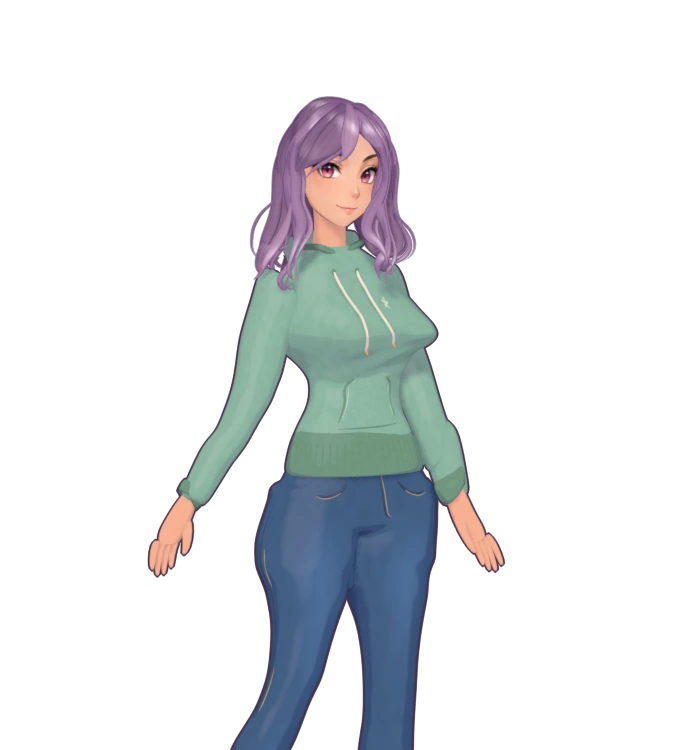
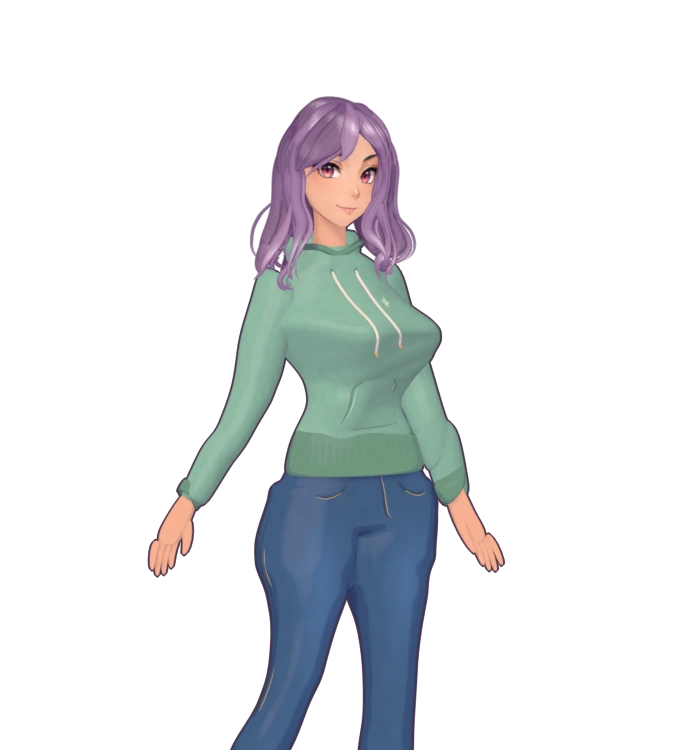
Round the studio bodice to match the illustrated garment profiles

diff --git a/docs/avatar-3d.html b/docs/avatar-3d.html
@@ -7,7 +7,7 @@
 <meta name="description" content="같은 코디의 2D 원화와 3D 모델 렌더를 비교해 보세요.">
 <title>캐릭터 제작 시안 · 알찬끼</title>
 <link rel="stylesheet" href="./avatar-3d.css">
-<script type="module" src="./avatar-3d.mjs?v=18"></script>
+<script type="module" src="./avatar-3d.mjs?v=19"></script>
 </head>
 <body>
 <main>

diff --git a/scripts/avatar-studio/render.py b/scripts/avatar-studio/render.py
@@ -833,25 +833,36 @@ def sleeves(fabric, cuff, trim=None):
         mark_region(before, "arm", side)
 
 
-def tailored_fold(point, angle, strength=1, chest_ease=1):
+# Additional room across successive horizontal sections of the dress form.
+# Both garments turn gradually under the rib cage. The open, tailored coat
+# settles against the waist sooner than the closed fleece front.
+BODICE_SECTIONS = [
+    # height, fleece ease, coat ease
+    (3.50,.000,.000), (3.64,.138,.031), (3.76,.199,.070),
+    (3.86,.220,.098), (3.96,.259,.165), (4.04,.323,.248),
+    (4.10,.328,.279), (4.16,.236,.251), (4.23,.142,.105),
+    (4.30,.067,.075), (4.39,.000,.000),
+]
+
+
+def tailored_fold(point, angle, strength=1, coat=False):
     x,y,z = point
-    # The cloth bridges the chest, turns under the rib cage and relaxes at
-    # the waist. Use the same dress form for the knit, fleece and coat.
     front = max(0, cos(angle))
     side = sin(angle)
-    crest = 4.025+.075*side
-    chest = chest_ease*exp(-((z-crest)/.245)**2)
-    # The cross-section rounds on either side of the sternum. Give the
-    # side seam some ease and let the fabric bridge the centre softly.
-    rounded = exp(-((abs(side)-.54)/.38)**2)
-    x += chest*(.116*side+.055*front+.138*smooth_range(side,-.2,.72))
-    y -= chest*front*(.180+.118*rounded)
+    section = coat_section if coat else fleece_section
+    ease, = section(z)
+    # The closer side faces the camera. Roll the fabric down and around
+    # it before it meets the waist, with a soft bridge across the front.
+    near = exp(-((side+.49)/.44)**2)
+    drape, = section(z+.090*near)
+    x += ease*(.50*side+.26*front+.26*smooth_range(side,-.2,.72))
+    y -= front*(.91*drape+.137*near*exp(-((z-3.92)/.25)**2))
     waist = exp(-((z-3.655)/.142)**2)
     x -= .023*side*waist
     y += .034*front*waist
     pucker = 0
     for center, bias, span, height in ((3.49,.22,.043,.023),(3.61,-.26,.038,.021),
-                                      (3.75,-.31,.038,.022),(4.08,.17,.055,.013)):
+                                      (3.74,-.38,.058,.015),(4.08,.22,.072,.004)):
         t = (z-center + bias*x)/span
         pucker += height*(exp(-t*t) - .66*exp(-(t-1.23)**2))
     pucker *= max(0, cos(angle))**.8 * strength
@@ -942,7 +953,7 @@ def coat(fabric, lapel, inner, gold, thread):
     rows = [(x,y,z,w*.93,d*.95) for x,y,z,w,d in TORSO] + [
         (0,-.008,4.433,.158,.147),(0,-.016,4.467,.131,.131)]
     rings("Cream knit with pressed neckline", stitched_rows(rows), inner, cap=False,
-          sculpt=lambda point,angle: tailored_fold(point,angle,chest_ease=.75), smooth=1)
+          sculpt=lambda point,angle: tailored_fold(point,angle,coat=True), smooth=1)
     rings("Folded knit collar around neck", [(0,-.016,4.446,.155,.147),
           (0,-.016,4.474,.139,.140),(0,-.017,4.504,.130,.127),
           (0,-.017,4.509,.115,.116)], inner, cap=False, smooth=1)
@@ -953,7 +964,7 @@ def coat(fabric, lapel, inner, gold, thread):
         (0,.024,4.284,.510,.241),(0,.023,4.356,.417,.219),(0,.014,4.440,.214,.173)
     ]
     def coat_fold(point, angle):
-        x,y,z = tailored_fold(point, angle, strength=.44, chest_ease=.75)
+        x,y,z = tailored_fold(point, angle, strength=.44, coat=True)
         flex = max(0,min(1,(3.5-z)/1.48))
         wave = (.042*sin(5*angle+.55) + .018*sin(10*angle))*flex
         sweep = (.071+.080*sin(angle-.46))*flex*flex
@@ -1271,6 +1282,10 @@ def smooth_profile(rows):
                      for v,m in zip(columns, tangents))
 
     return sample
+
+
+fleece_section = smooth_profile([(z,fleece) for z,fleece,_ in BODICE_SECTIONS])
+coat_section = smooth_profile([(z,coat) for z,_,coat in BODICE_SECTIONS])
 
 
 def fit_reference_pose(scene):

diff --git a/scripts/avatar-studio/cel_style.py b/scripts/avatar-studio/cel_style.py
@@ -44,8 +44,9 @@ def blend_colour(tree, label, operation, weight, base, layer):
     return node.outputs[0]
 
 
-def studio_ink_shader():
-    tree = shader_group("Wardrobe cel shading", (
+def studio_ink_shader(tailored=False):
+    name = "Draped fabric light" if tailored else "Wardrobe cel shading"
+    tree = shader_group(name, (
         ("Surface", "OUTPUT", "NodeSocketShader"),
         ("Pigment", "INPUT", "NodeSocketColor"),
         ("Shadows", "INPUT", "NodeSocketFloat"),
@@ -80,6 +81,18 @@ def studio_ink_shader():
         (0,(.60,.50,.63)),(.67,(1.04,1.01,1.0)),(1,(1.08,1.045,1.02))
     ],"Soft light for painted skin")
     shade_filter = blend_colour(tree,"Blend the shadow edge","MIX",panel["Soft shadows"],brightness,smooth_light)
+    geometry = nodes.new("ShaderNodeNewGeometry").outputs
+    normal, eye = geometry["Normal"], geometry["Incoming"]
+    if tailored:
+        # A broad studio key rolls continuously around the cloth. Keep
+        # part of the scene light for contact shadows under cords and lapels.
+        aim = math_node("DOT_PRODUCT",normal,(-.69,-.33,.644),vector=True)
+        wrap = math_node("ADD",math_node("MULTIPLY",aim,.5),.5)
+        fill = tone_curve(tree,wrap,[
+            (0,(.36,.30,.39)),(.39,(.55,.49,.55)),(.67,(.87,.83,.85)),
+            (.88,(1.09,1.04,1.00)),(1,(1.15,1.10,1.05))
+        ],"Broad light across the fabric")
+        shade_filter = blend_colour(tree,"Contact and form light","MIX",.70,shade_filter,fill)
     paint = blend_colour(tree,"Light over pigment","MULTIPLY",panel["Shadows"],panel["Pigment"],shade_filter)
     lambert.location = (-1065,450)
     light.location = (-850,450)
@@ -89,8 +102,6 @@ def studio_ink_shader():
     shade_filter.node.location = (-125,540)
     paint.node.location = (70,540)
 
-    geometry = nodes.new("ShaderNodeNewGeometry").outputs
-    normal, eye = geometry["Normal"], geometry["Incoming"]
     def dot(a,b):
         return math_node("DOT_PRODUCT",a,b,vector=True)
 
@@ -286,6 +297,7 @@ def style_materials():
     hair_matte = bpy.context.view_layer.aovs.add()
     hair_matte.name, hair_matte.type = HAIR_MATTE, "VALUE"
     group = studio_ink_shader()
+    clothing_group = studio_ink_shader(tailored=True)
     hair_group = layered_hair_shader()
     surfaces = {
         # Shadow amount, softness, physical sheen, coloured rim strength.
@@ -315,7 +327,9 @@ def style_materials():
         shadow,soft,shine,ink,color = surfaces[kind]
         cel = tree.nodes.new("ShaderNodeGroup")
         layered_hair = kind == "hair" and mat.get("painted_hair_masks",False)
-        cel.node_tree = hair_group if layered_hair else group
+        cel.node_tree = clothing_group if kind=="tailored cloth" else group
+        if layered_hair:
+            cel.node_tree = hair_group
         cel.label = "Layered hair paint" if layered_hair else "Cartoon paint and lighting"
         cel.location = (shader.location.x+280,shader.location.y)
         base = shader.inputs["Base Color"]

diff --git a/scripts/avatar-studio/STYLE-GUIDE.md b/scripts/avatar-studio/STYLE-GUIDE.md
@@ -6,7 +6,7 @@
 
 - 전신은 모자를 벗긴 상태에서 정수리와 발바닥 높이를 맞춰 비교한다. 같은 화면에서 허리선과 가랑이 높이, 무릎에서 발목까지의 흐름을 확인한다. 몸판과 데님의 세로 비율은 `SILHOUETTE_HEIGHTS`에서 함께 맞추고, 손은 소매와 함께 움직인다. 머리 크기를 조정할 때는 앞머리와 모자도 같이 움직여 목과 챙의 겹침을 확인한다.
 - `TAILORING_PROFILE`은 높이 구간마다 3D 메시의 폭과 깊이를 맞춘다. 어깨에서 허리로 이어지는 곡선과 종아리의 가늘어짐을 조절할 때 상의, 데님, 손과 소매에 공통으로 적용한다. 발목과 옷깃에서 인접 부위가 자연스럽게 이어지는지 확인한다.
-- 가슴과 허리는 `tailored_fold`의 공통 몸통 곡면에서 잡는다. 후디 끈과 코트 깃의 안쪽·바깥쪽 가장자리를 그 곡면에 붙이고, 같은 카메라에서 가슴 앞판이 나오는 위치와 허리로 돌아가는 윤곽을 비교한다. 골반 너비는 팔을 제외하고 몸 중심을 지나는 옷이나 데님만 측정한다.
+- 가슴과 허리는 `BODICE_SECTIONS`에서 높이별로 후디와 코트의 여유분을 정하고 `tailored_fold`에서 곡면으로 연결한다. 원화와 비교해 앞선이 둥글게 도는 높이 구간과 가슴 아래쪽의 기울기를 함께 확인한다. 후디 끈과 코트 깃의 안쪽·바깥쪽 가장자리를 그 곡면에 붙이고, 같은 카메라에서 가슴 앞판이 나오는 위치와 허리로 돌아가는 윤곽을 비교한다. 골반 너비는 팔을 제외하고 몸 중심을 지나는 옷이나 데님만 측정한다.
 - 같은 카메라에서 비교할 때 목깃 아래의 어깨 기울기와 양쪽 소매 밖의 폭을 여러 높이에서 확인한다. 어깨 폭을 바꾸면 관자놀이와 턱 옆의 웨이브 폭도 함께 확인하고, 가닥이 가장 넓게 굽는 위치와 끝이 옷에 닿는 높이를 원화와 맞춘다.
 - 머리카락은 가르마에서 출발해 관자놀이와 어깨를 따라 크게 나눈다. 좌우 가닥의 끝 높이와 방향을 다르게 두고, 가닥끼리 겹치는 곳과 사이로 배경이 보이는 곳을 모두 만든다. 큰 곡선에는 가는 보조 가닥과 색선을 얹는다. 눈매와 볼을 드러내고 베레모 아래에서는 뿌리와 앞머리를 챙 안쪽으로 눌러 맞춘다.
 - 앞머리는 가르마에서 한쪽 눈썹을 스치도록 큰 가닥과 가는 끝 가닥을 겹친다. 두 가닥 사이로 이마가 갈라져 보이면 안쪽에 받치는 모발 면을 맞춘다. 반대편 눈썹과 양쪽 눈동자, 베레모 챙의 아랫선이 읽히는지 같은 배율로 확인한다.

diff --git a/team/REQUEST-MEMORY.md b/team/REQUEST-MEMORY.md
@@ -6,7 +6,7 @@
 
 | 적용 범위 | 이어갈 요청 | 작업 후 확인 |
 | --- | --- | --- |
-| 3D 제작 시안의 체형 | 같은 배율의 옷장 원화를 기준으로 한다. 어깨는 좁고 자연스럽게 기울며, 가슴의 앞쪽 깊이와 허리에서 골반까지 이어지는 곡선이 함께 읽혀야 한다. | 후디와 코트 각각에서 어깨 폭, 가슴 앞판의 돌출, 허리로 들어가는 선과 골반 양옆을 본다. 어깨를 줄이는 작업에서도 몸통의 입체감을 따로 확인한다. |
+| 3D 제작 시안의 체형 | 같은 배율의 옷장 원화를 기준으로 한다. 어깨는 좁고 자연스럽게 기울며, 가슴 앞선은 원화처럼 넓고 둥글게 돌아 허리·골반으로 이어져야 한다. | 후디와 코트 각각에서 어깨 폭, 가슴의 가장 바깥쪽과 그 위아래 곡률, 허리선과 골반 양옆을 본다. 후디의 그늘이나 코트 깃의 꺾임이 한 점에 몰리는지도 확대해 비교한다. 어깨를 줄이는 작업에서도 몸통의 입체감을 따로 확인한다. |
 | 얼굴과 헤어 | 정지 상태의 2D 애니메이션풍 인상이 우선이다. 원화처럼 앞머리가 한쪽 눈썹을 스치고, 옆머리는 귀를 감싸 어깨로 떨어진다. 정수리와 볼 옆의 부피, 목 굵기도 원화와 맞춘다. | 전신과 헤어 확대에서 눈매, 귀 옆의 틈, 가닥의 겹침과 반사광을 확인한다. |
 | 3D 시안의 모자 | 일반 헤어와 모자 쓴 헤어를 각각 한 스타일로 만든다. | 베레모를 골랐을 때 전용 앞머리가 챙 아래에 앉는지 본다. |
 | 새 의상과 피팅 | 코디가 늘어나도 목·카라·손목, 상하의 허리선, 신발 입구가 몸의 각도를 따른다. 포즈보다 가만히 서 있는 착장의 완성도를 먼저 맞춘다. | 실제 착장으로 접점을 확대한다. 시안의 후디 끈과 코트 깃은 앞판 곡면을 따라가야 한다. |
